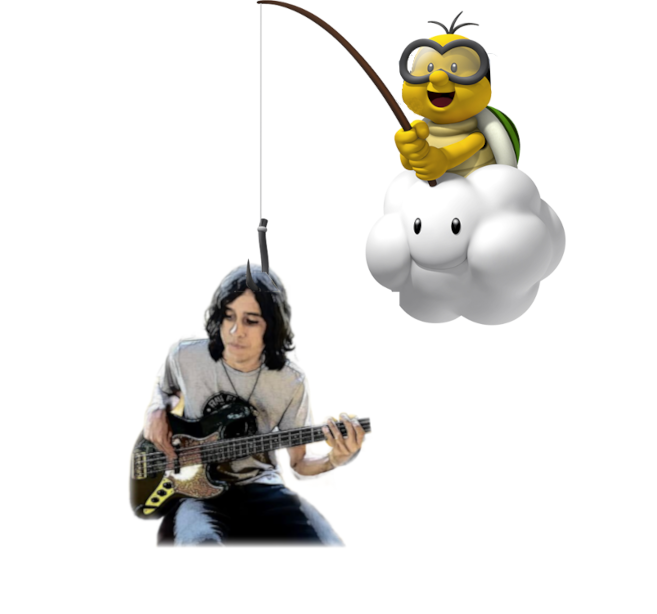
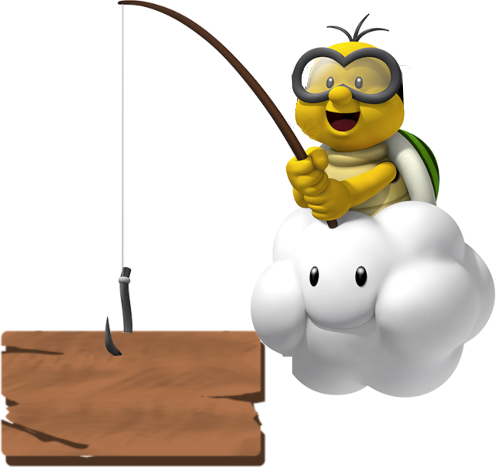
.

diff --git a/css/style.css b/css/style.css
@@ -48,6 +48,7 @@
     width: 150px;
 }
 #chao{
+    top:600px;
     position: absolute;
     width: 2000px;
 }
@@ -62,15 +63,16 @@
 #rolagem img:nth-child(2) {
     left: 50%;
 }
-#centralizador{
+#placar{
     position: absolute;
-    top:100px;
-    left:650px;
+    left:752px;
+    animation: animacaoscore 3s infinite linear;
+    animation-timing-function: ease-in-out;
 }
 #lakitu{
     position: absolute;
-    width: 350px;
-    left: 400px;
+    width: 230px;
+    left: 700px;
     animation: animacaolakitu 3s infinite linear;
     animation-timing-function: ease-in-out;
 }
@@ -98,7 +100,12 @@
     100%{opacity: 100%;}
 }
 @keyframes animacaolakitu{
-    0%{top:100px;}
-    50%{top:270px;}
-    100%{top:100px;}
+    0%{top:50px;}
+    50%{top:135px;}
+    100%{top:50px;}
+}
+@keyframes animacaoscore{
+    0%{top:210px;}
+    50%{top:295px;}
+    100%{top:210px;}
 }

diff --git a/index.html b/index.html
@@ -14,17 +14,18 @@
         <img id="tubo"src="img/tubo.png">
         <img id="mario"src="img/mario.gif">
         <img id="lakitu" src="img/lakitu.png">
+        <div id="placar">0</div>
+        <div id="rolo">
+            <div id="rolagem">
+                <img id="chao" src="img/chao.png">
+                <img id="chao" src="img/chao1.png">
+            </div>
+        </div> 
     </div> 
-    <div id="rolo">
-        <div id="rolagem">
-            <img id="chao" src="img/chao.png">
-            <img id="chao" src="img/chao1.png">
-        </div>
-    </div>
-    <div id="centralizador">
-    <img id="placa"src="img/placa.png">
-    <div id="placar">0</div>
-    </div>
+    
+    
+    
+ 
     <button id="botao"onclick="location.reload()">Tentar Novamente</button>
 </body>
 </html>
